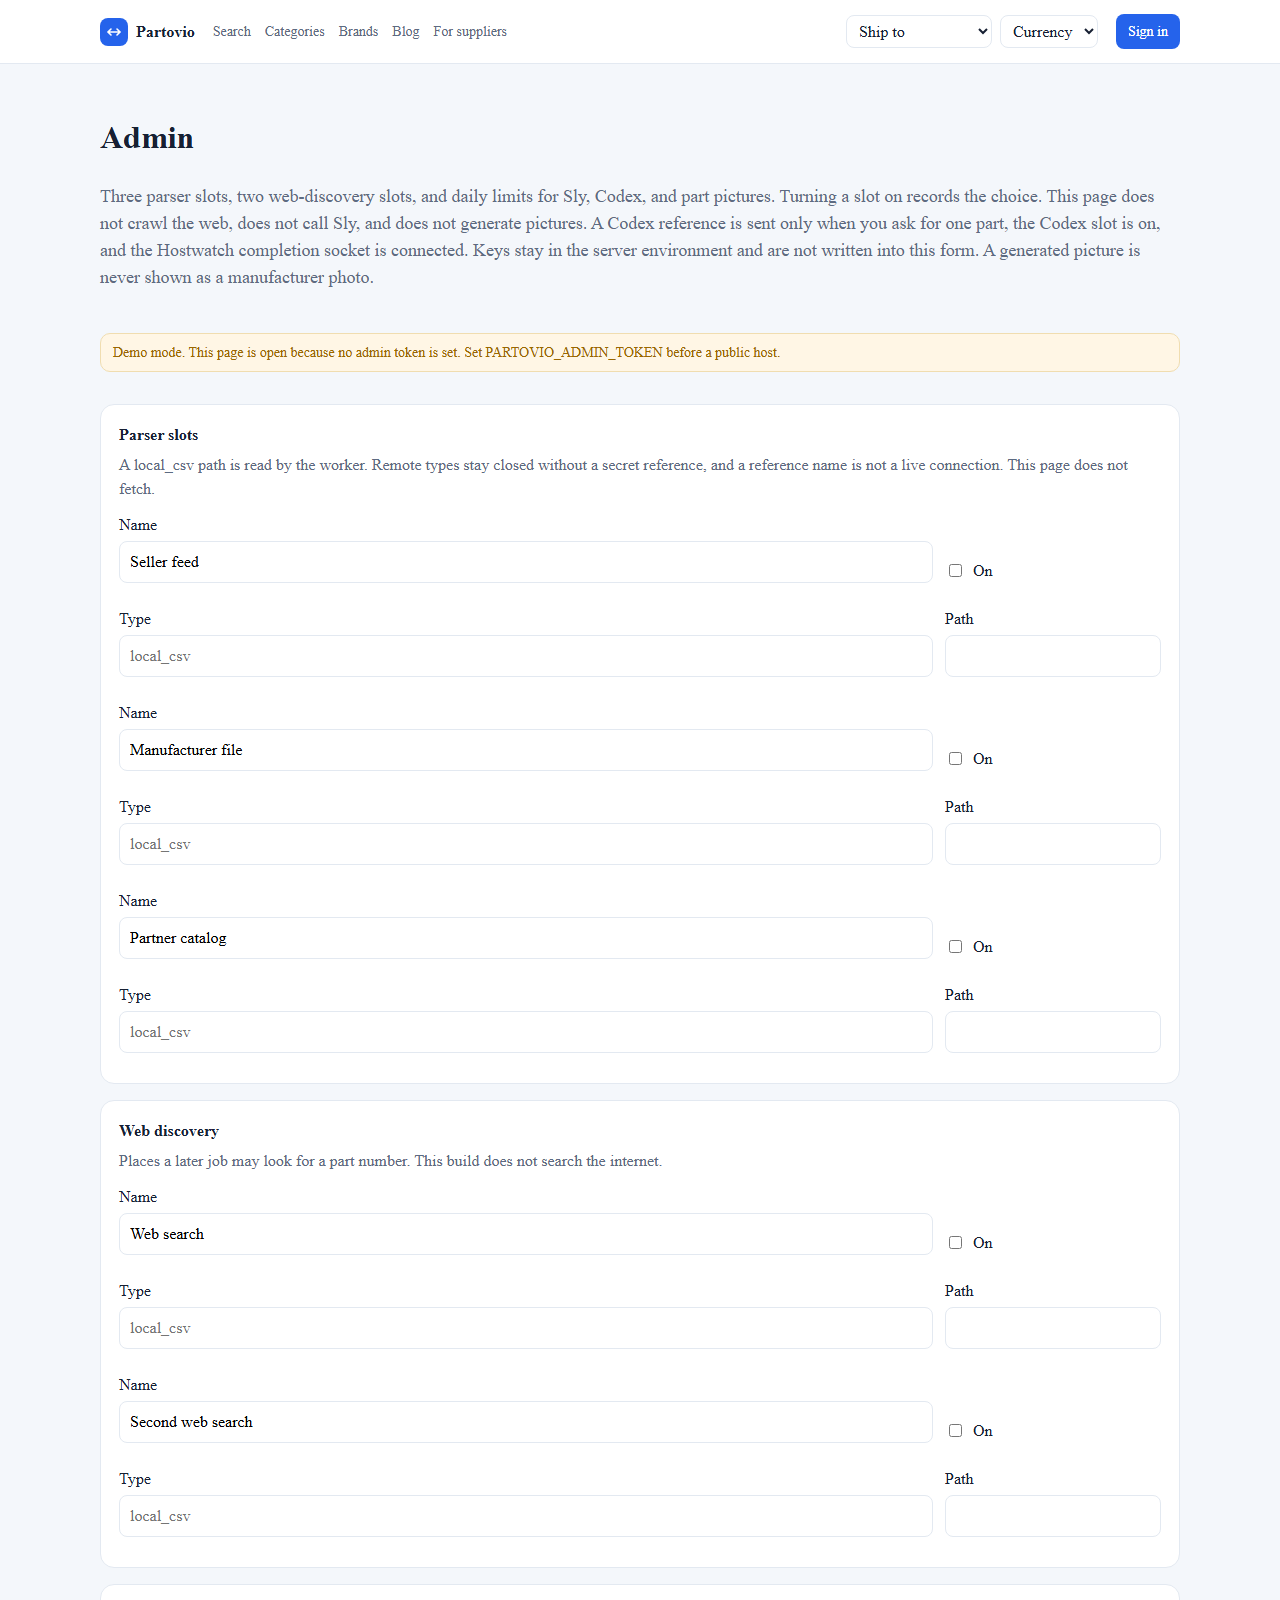
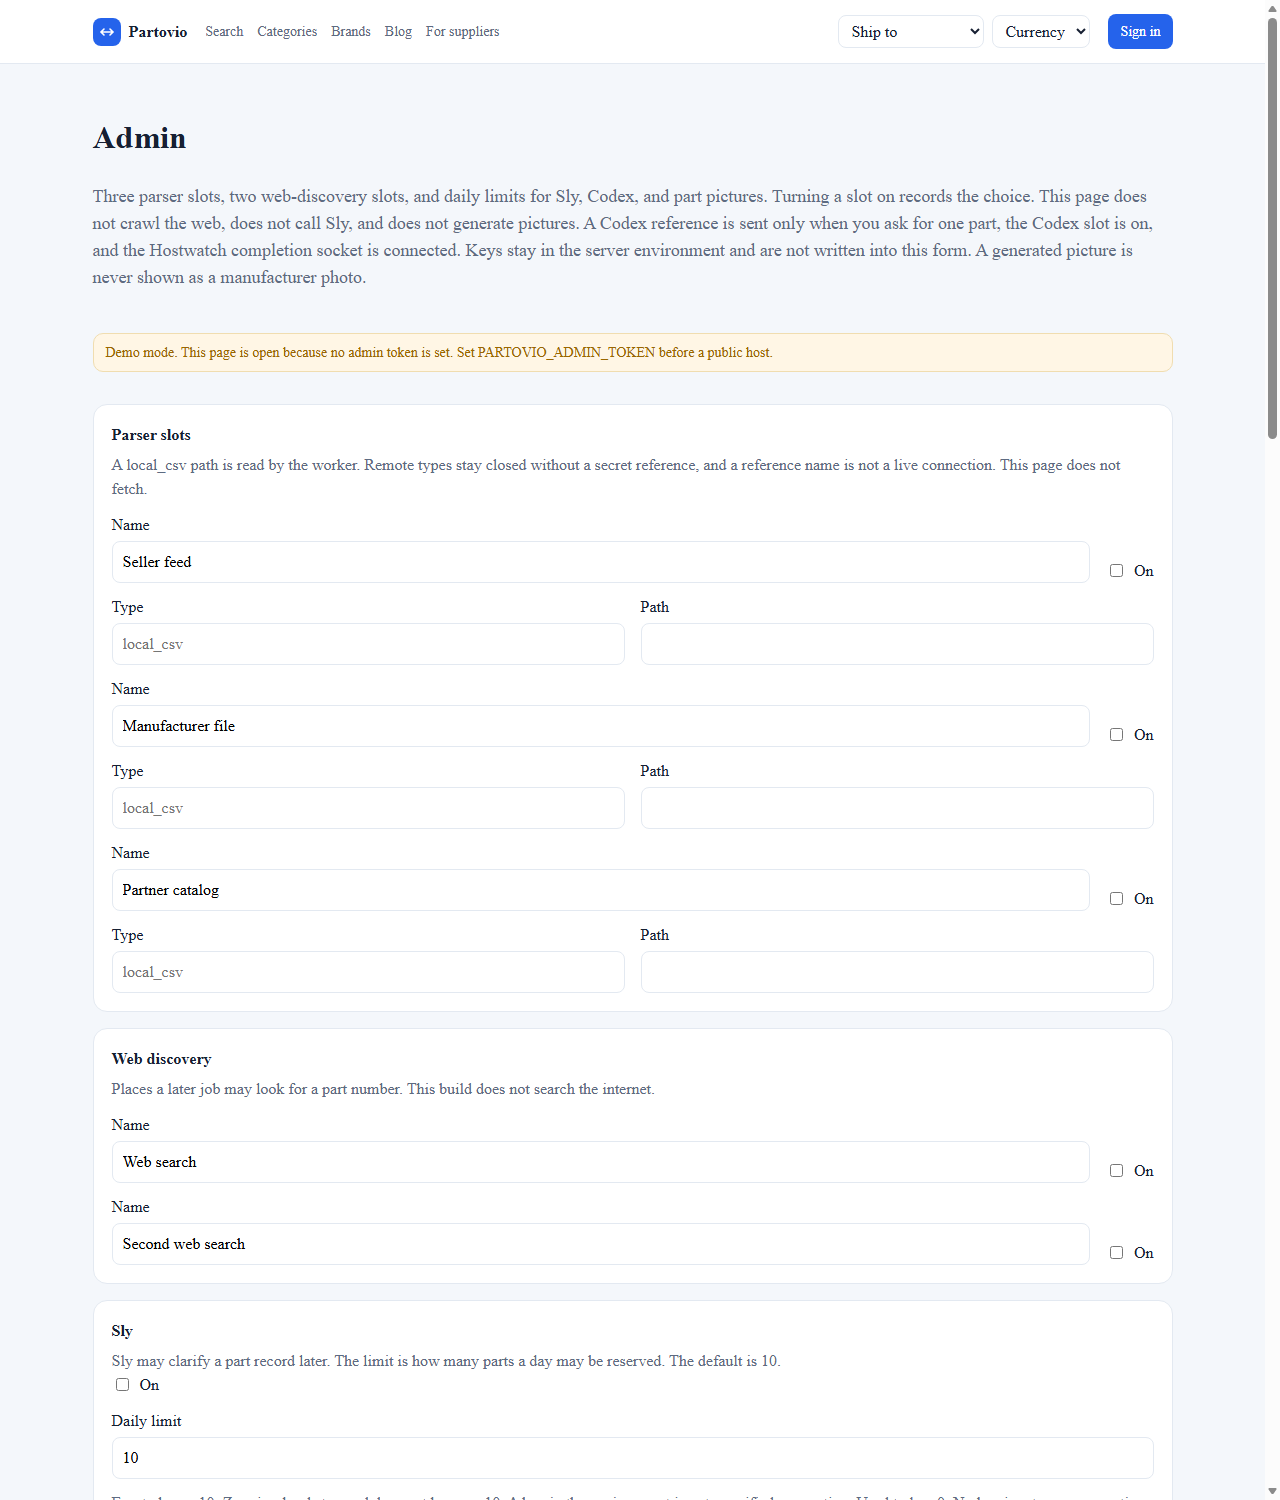
Fit the phone header and show a price as a point.
Parser paths share a row, web discovery no longer looks like a CSV file, and empty product facts no longer sit above the offers.

diff --git a/app/p/[id]/[slug]/page.tsx b/app/p/[id]/[slug]/page.tsx
@@ -42,6 +42,14 @@ export default async function ProductPage({
   const newest = rows.map((offer) => offer.observed_at).sort().at(-1);
   const quotedShip = rows.filter((offer) => offer.shipping.status === "quoted").length;
   const photo = rows.find((offer) => offer.image_url)?.image_url;
+  const delivery = rows.length === 0 ? "No offer" : quotedShip === rows.length ? "Delivery quoted" : quotedShip === 0 ? "Delivery not confirmed" : `Delivery quoted on ${quotedShip} of ${rows.length}`;
+  const facts = [
+    item.category,
+    `${sellers} ${sellers === 1 ? "seller" : "sellers"}`,
+    `${rows.length} ${rows.length === 1 ? "offer" : "offers"}`,
+    newest ? `Updated ${when(newest)}` : "No observation",
+    delivery,
+  ].filter(Boolean);
 
   return (
     <main className="wrap">
@@ -49,36 +57,32 @@ export default async function ProductPage({
       <p className="crumbs"><Link href="/">Home</Link> / <Link href="/catalog">Catalog</Link> / {item.category_id ? <Link href={`/catalog/${item.category_id}`}>{item.category || "Part"}</Link> : (item.category || "Part")}</p>
       <div className="product-top">
         <section className="panel">
-          {photo ? (
-            <img src={photo} alt={`${item.manufacturer} ${item.mpn}`} referrerPolicy="no-referrer" style={{ maxWidth: "160px", maxHeight: "160px", objectFit: "contain" }} />
-          ) : (
-            <p className="muted">No photograph is stored.</p>
-          )}
-          <div className="row-actions">
-            <h1 className="mpn">{item.mpn}</h1>
-            <CopyButton value={item.mpn} />
+          <div className={photo ? "identity" : "identity identity-plain"}>
+            {photo ? (
+              <img className="part-photo" src={photo} alt={`${item.manufacturer} ${item.mpn}`} referrerPolicy="no-referrer" />
+            ) : (
+              <p className="muted photo-note">No photograph is stored.</p>
+            )}
+            <div>
+              <div className="row-actions">
+                <h1 className="mpn">{item.mpn}</h1>
+                <CopyButton value={item.mpn} />
+              </div>
+              <p>{item.manufacturer}</p>
+              <p className="muted">{item.title}</p>
+            </div>
           </div>
-          <p>{item.manufacturer}</p>
-          <p className="muted">{item.title}</p>
-          <dl className="kvs">
-            <dt>Lifecycle</dt><dd>{item.lifecycle || "Unknown"}</dd>
-            <dt>Category</dt><dd>{item.category || "Uncategorised"}</dd>
-            {item.gtin && <><dt>GTIN</dt><dd className="mpn">{item.gtin}</dd></>}
-            <dt>Datasheet</dt><dd>Not in the record</dd>
-            <dt>Picture</dt><dd>{photo ? "Seller file" : "Not in the record"}</dd>
-            <dt>Sellers</dt><dd>{sellers}</dd>
-            <dt>Offers</dt><dd>{rows.length}</dd>
-            <dt>Updated</dt><dd>{newest ? when(newest) : "No observation"}</dd>
-            <dt>Delivery</dt><dd>{rows.length === 0 ? "No offer" : quotedShip === rows.length ? "Quoted on every offer" : quotedShip === 0 ? "Not confirmed" : `Quoted on ${quotedShip} of ${rows.length}`}</dd>
-          </dl>
-          <p>{item.description || "No manufacturer description is stored for this part yet."}</p>
+          <p className="muted">{facts.join(" · ")}</p>
+          {item.gtin && <p>GTIN <span className="mpn">{item.gtin}</span></p>}
+          {item.lifecycle && item.lifecycle !== "unknown" && <p className="muted">Lifecycle {item.lifecycle}</p>}
+          {item.description && <p>{item.description}</p>}
           {product.data.reference?.text && (
             <p className="muted">Reference note, not a price or a photograph: {product.data.reference.text}</p>
           )}
         </section>
         <section className="panel">
-          <h2>This comparison</h2>
-          <p className="muted">Offers found in connected sources. This is not every seller in the world.</p>
+          <h2>Quantity</h2>
+          <p className="muted">The offers below follow this quantity. They are not every seller in the world.</p>
           <form action={`/p/${id}/${slug}`} method="get" className="controls">
             {query.country && <input type="hidden" name="country" value={query.country} />}
             {query.currency && <input type="hidden" name="currency" value={query.currency} />}

diff --git a/app/admin/page.tsx b/app/admin/page.tsx
@@ -108,7 +108,7 @@ function DeskForm({
         <p className="muted">A local_csv path is read by the worker. Remote types stay closed without a secret reference, and a reference name is not a live connection. This page does not fetch.</p>
         <div className="admin-sources">
           {desk.parse.map((source, index) => (
-            <SourceFields key={`parse-${index}`} prefix="parse" index={index} source={source} />
+            <SourceFields key={`parse-${index}`} prefix="parse" index={index} source={source} files />
           ))}
         </div>
       </section>
@@ -174,25 +174,36 @@ function DeskForm({
   );
 }
 
-function SourceFields({ prefix, index, source }: { prefix: string; index: number; source: DeskSource }) {
+function SourceFields({ prefix, index, source, files = false }: { prefix: string; index: number; source: DeskSource; files?: boolean }) {
   return (
     <div className="admin-source">
-      <label className="field">
-        Name
-        <input name={`${prefix}_name_${index}`} defaultValue={source.name} maxLength={80} />
-      </label>
-      <label className="check">
-        <input type="checkbox" name={`${prefix}_on_${index}`} defaultChecked={source.enabled} />
-        On
-      </label>
-      <label className="field">
-        Type
-        <input name={`${prefix}_type_${index}`} defaultValue={source.type || ""} placeholder="local_csv" maxLength={40} />
-      </label>
-      <label className="field">
-        Path
-        <input name={`${prefix}_path_${index}`} defaultValue={source.feed_path || ""} maxLength={240} />
-      </label>
+      <div className="admin-source-head">
+        <label className="field">
+          Name
+          <input name={`${prefix}_name_${index}`} defaultValue={source.name} maxLength={80} />
+        </label>
+        <label className="check">
+          <input type="checkbox" name={`${prefix}_on_${index}`} defaultChecked={source.enabled} />
+          On
+        </label>
+      </div>
+      {files ? (
+        <>
+          <label className="field">
+            Type
+            <input name={`${prefix}_type_${index}`} defaultValue={source.type || ""} placeholder="local_csv" maxLength={40} />
+          </label>
+          <label className="field">
+            Path
+            <input name={`${prefix}_path_${index}`} defaultValue={source.feed_path || ""} maxLength={240} />
+          </label>
+        </>
+      ) : (
+        <>
+          <input type="hidden" name={`${prefix}_type_${index}`} value={source.type || ""} />
+          <input type="hidden" name={`${prefix}_path_${index}`} value={source.feed_path || ""} />
+        </>
+      )}
       {source.status && <p className="muted">Status: {source.status}</p>}
     </div>
   );

diff --git a/app/p/[id]/[slug]/history/page.tsx b/app/p/[id]/[slug]/history/page.tsx
@@ -68,8 +68,8 @@ function Chart({ events }: { events: HistoryEvent[] }) {
   const maxA = Math.max(...amounts);
   const spanT = Math.max(1, maxT - minT);
   const spanA = Math.max(0.01, maxA - minA);
-  const x = (time: number) => 40 + ((time - minT) / spanT) * 560;
-  const y = (amount: number) => 180 - ((amount - minA) / spanA) * 140;
+  const x = (time: number) => (maxT === minT ? 320 : 40 + ((time - minT) / spanT) * 560);
+  const y = (amount: number) => (maxA === minA ? 110 : 180 - ((amount - minA) / spanA) * 140);
   const bySeries = new Map<string, HistoryEvent[]>();
   for (const event of priced) {
     if (event.kind === "checked") continue;
@@ -79,13 +79,14 @@ function Chart({ events }: { events: HistoryEvent[] }) {
     bySeries.set(key, list);
   }
   const colors = ["#2563eb", "#0f7a56", "#9a6700", "#9f2d2d"];
-  const lines = [...bySeries.entries()].map(([series, points], index) => {
-    const segments: string[][] = [[]];
+  const lines = [...bySeries.entries()].map(([, points], index) => {
+    const segments: { x: number; y: number }[][] = [[]];
     for (const point of points) {
       if (point.gap_before && segments[segments.length - 1].length > 0) segments.push([]);
-      const cx = x(new Date(point.observed_at).getTime());
-      const cy = y(Number(point.amount));
-      segments[segments.length - 1].push(`${cx},${cy}`);
+      segments[segments.length - 1].push({
+        x: x(new Date(point.observed_at).getTime()),
+        y: y(Number(point.amount)),
+      });
     }
     const sample = points[0];
     return { seller: `${sample.supplier} ${sample.currency}`, color: colors[index % colors.length], segments };
@@ -93,7 +94,11 @@ function Chart({ events }: { events: HistoryEvent[] }) {
   return (
     <svg className="chart" viewBox="0 0 640 220" role="img" aria-label="Observed prices with gaps left open">
       {lines.map((line) => line.segments.map((segment, index) => (
-        <polyline key={`${line.seller}-${index}`} fill="none" stroke={line.color} strokeWidth="2" points={segment.join(" ")} />
+        segment.length === 1 ? (
+          <circle key={`${line.seller}-${index}`} cx={segment[0].x} cy={segment[0].y} r="5" fill={line.color} />
+        ) : (
+          <polyline key={`${line.seller}-${index}`} fill="none" stroke={line.color} strokeWidth="2" points={segment.map((point) => `${point.x},${point.y}`).join(" ")} />
+        )
       )))}
       {lines.map((line) => (
         <text key={line.seller} x="40" y={20 + lines.indexOf(line) * 16} fill={line.color} fontSize="12">{line.seller}</text>

diff --git a/app/globals.css b/app/globals.css
@@ -158,7 +158,15 @@ th { color: var(--muted); font-weight: 600; font-size: 12px; letter-spacing: 0.0
 .stack { display: grid; gap: 16px; }
 .note { max-width: none; }
 .admin-sources { display: grid; gap: 12px; margin-top: 12px; }
-.admin-source { display: grid; grid-template-columns: 1fr auto; gap: 12px; align-items: end; }
+.admin-source { display: grid; grid-template-columns: 1fr 1fr; gap: 12px 16px; align-items: flex-end; }
+.admin-source-head { grid-column: 1 / -1; display: flex; gap: 16px; align-items: flex-end; }
+.admin-source-head .field { flex: 1; }
+.admin-source .field, .admin-source .check { margin: 0; }
+.admin-source > .muted { grid-column: 1 / -1; }
+.identity { display: flex; gap: 16px; align-items: flex-start; }
+.identity-plain { display: block; }
+.part-photo { width: 96px; height: 96px; object-fit: contain; background: var(--bg); border-radius: 8px; }
+.photo-note { margin: 0 0 8px; }
 .wide { width: 100%; overflow-x: auto; }
 .footer a { color: var(--muted); text-decoration: none; margin-right: 12px; font-size: 14px; }
 .footer-inner { justify-content: space-between; }
@@ -170,8 +178,22 @@ th { color: var(--muted); font-weight: 600; font-size: 12px; letter-spacing: 0.0
   .nav { display: none; }
   .desk { display: none; }
   .cards { display: block; background: white; border: 1px solid var(--line); border-radius: 14px; }
-  .bar, .footer-inner { flex-wrap: wrap; }
+  .bar, .footer-inner { flex-wrap: wrap; row-gap: 10px; }
+  .bar {
+    display: grid;
+    grid-template-columns: minmax(0, 1fr) auto;
+    grid-template-areas: "brand signin" "controls controls";
+    align-items: center;
+    column-gap: 12px;
+  }
+  .bar .nav, .bar .spacer { display: none; }
+  .bar .brand { grid-area: brand; }
+  .bar .signin { grid-area: signin; justify-self: end; margin-left: 0; }
+  .bar .controls { grid-area: controls; min-width: 0; }
+  .bar .controls label { flex: 1 1 0; min-width: 0; }
+  .bar .controls select { width: 100%; max-width: 100%; }
   .footer-inner { align-items: flex-start; }
   .search { flex-direction: column; }
-  .admin-source { grid-template-columns: 1fr; }
+  .admin-source, .admin-source-head { grid-template-columns: 1fr; display: grid; }
+  .admin-source-head { display: grid; }
 }
